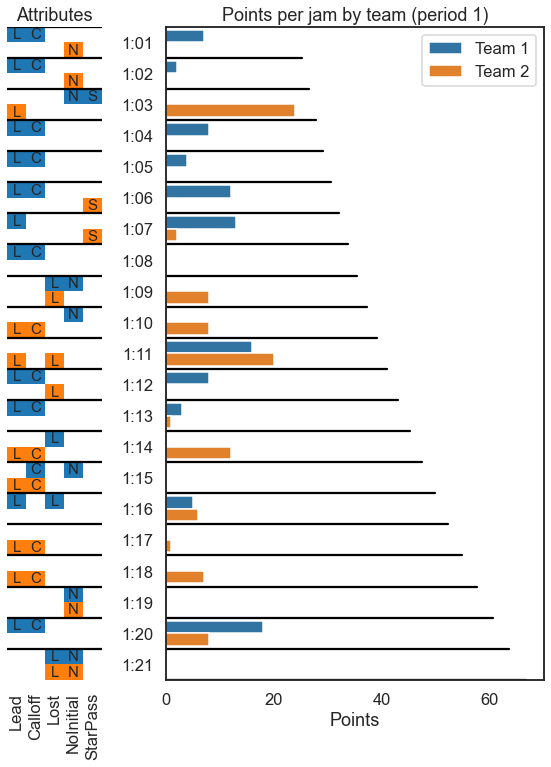
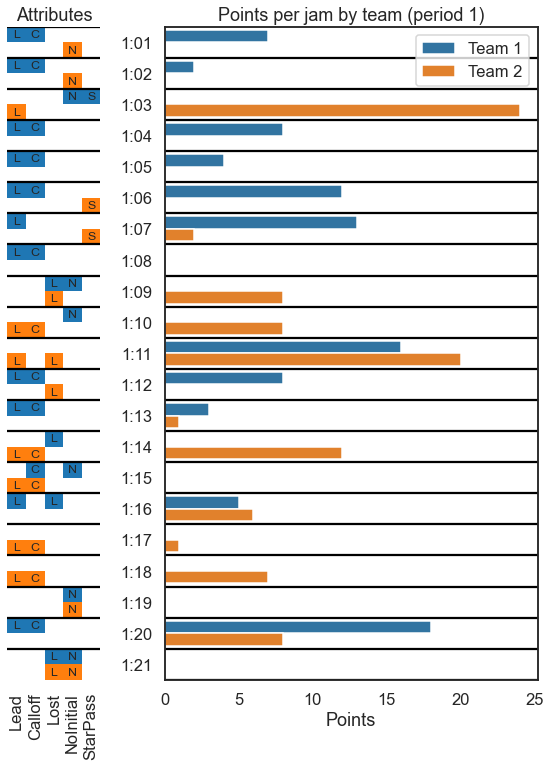
tweaks to plot

diff --git a/src/jamstats/plots/jamplots.py b/src/jamstats/plots/jamplots.py
@@ -226,7 +226,7 @@ def plot_jam_lead_and_scores(derby_game: DerbyGame,
         vals = list(pdf_jambools[col])
         for j in range(len(vals)):
             if vals[j]:
-                ax.text(i + .5, j + .5, col[0], size="small",
+                ax.text(i + .5, j + .5, col[0], size="x-small",
                         horizontalalignment="center",
                         verticalalignment="center")
     ax.set_xlabel("")
@@ -241,12 +241,14 @@ def plot_jam_lead_and_scores(derby_game: DerbyGame,
     n_period_jams = len(set(pdf_jam_data_long.prd_jam))
     ax.legend()
     # add lines separating jams
+    highscore = ax.get_xlim()[1]
     for i in range(n_period_jams):
         pdf_linedata = {
-            "x": ax.get_xlim(),
+            "x": [0, highscore],
             "y": [i + 0.5, i + 0.5],
         }
         sns.lineplot(x="x", y="y", data=pdf_linedata, color="black", ax=ax)
+    ax.set_xlim((0, highscore))
     ax.set_ylim((n_period_jams - 0.5, -0.5))
     title = "Points per jam by team"
     if period is not None:
